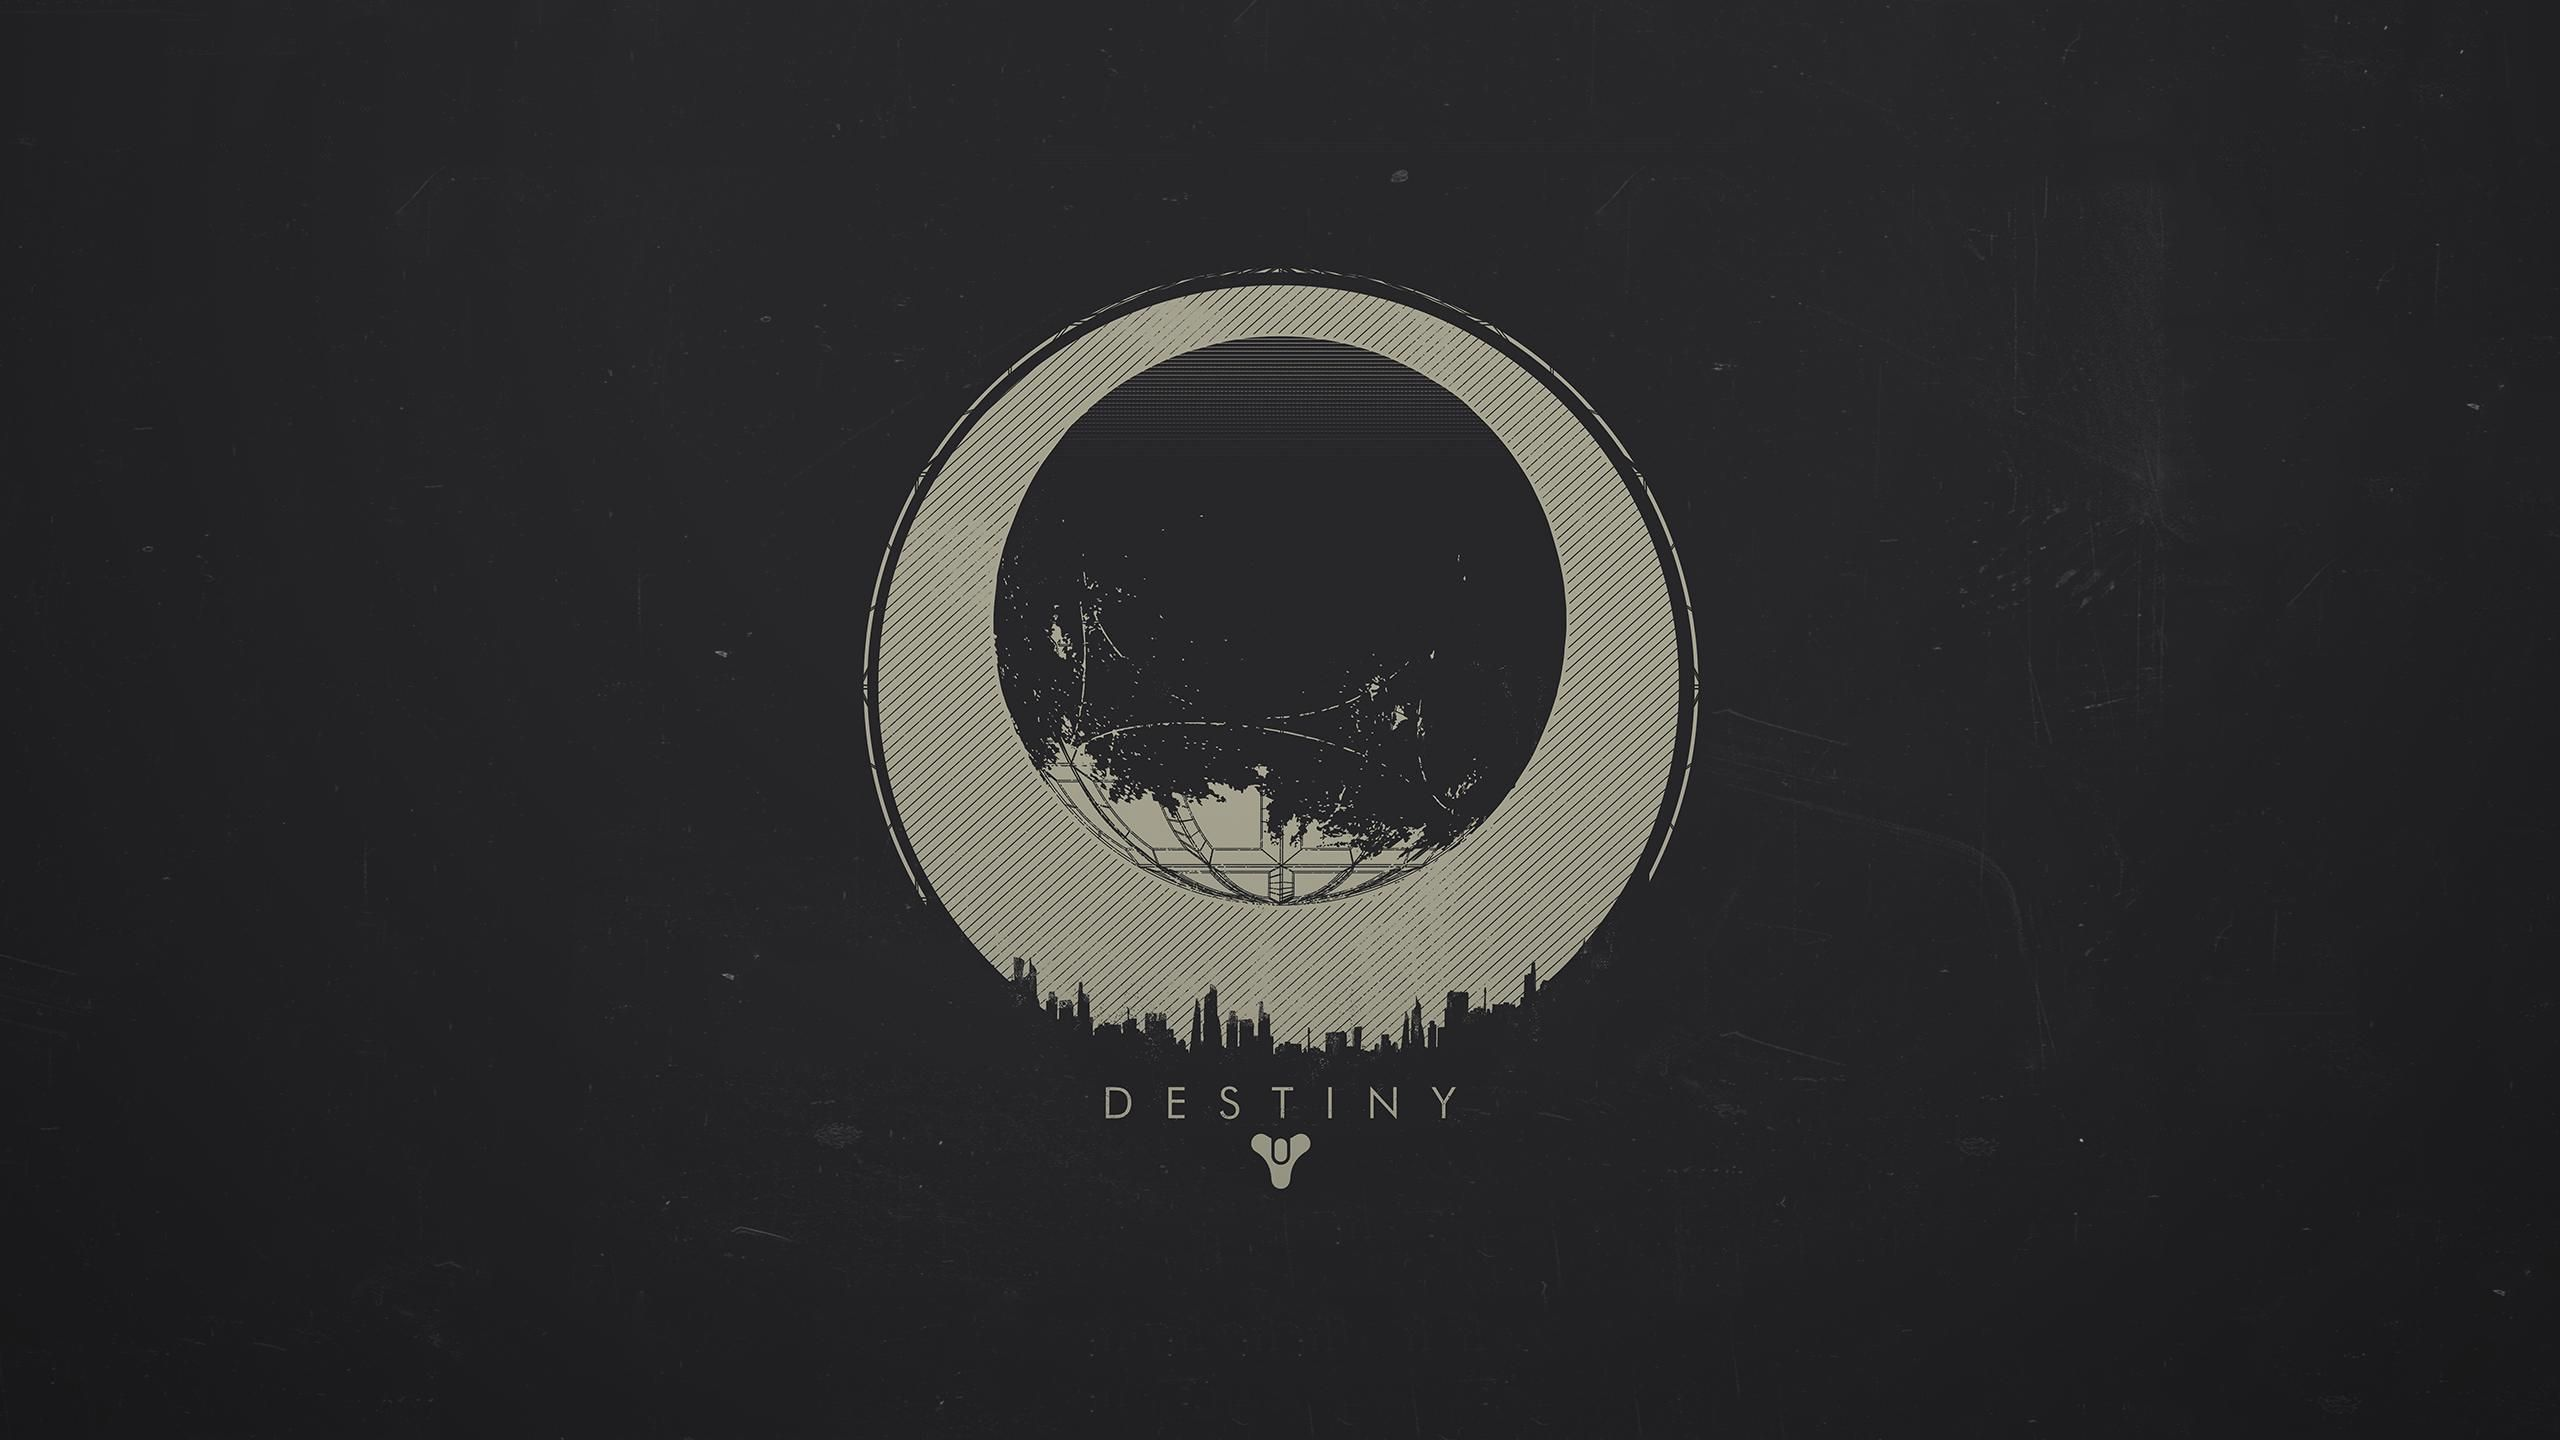
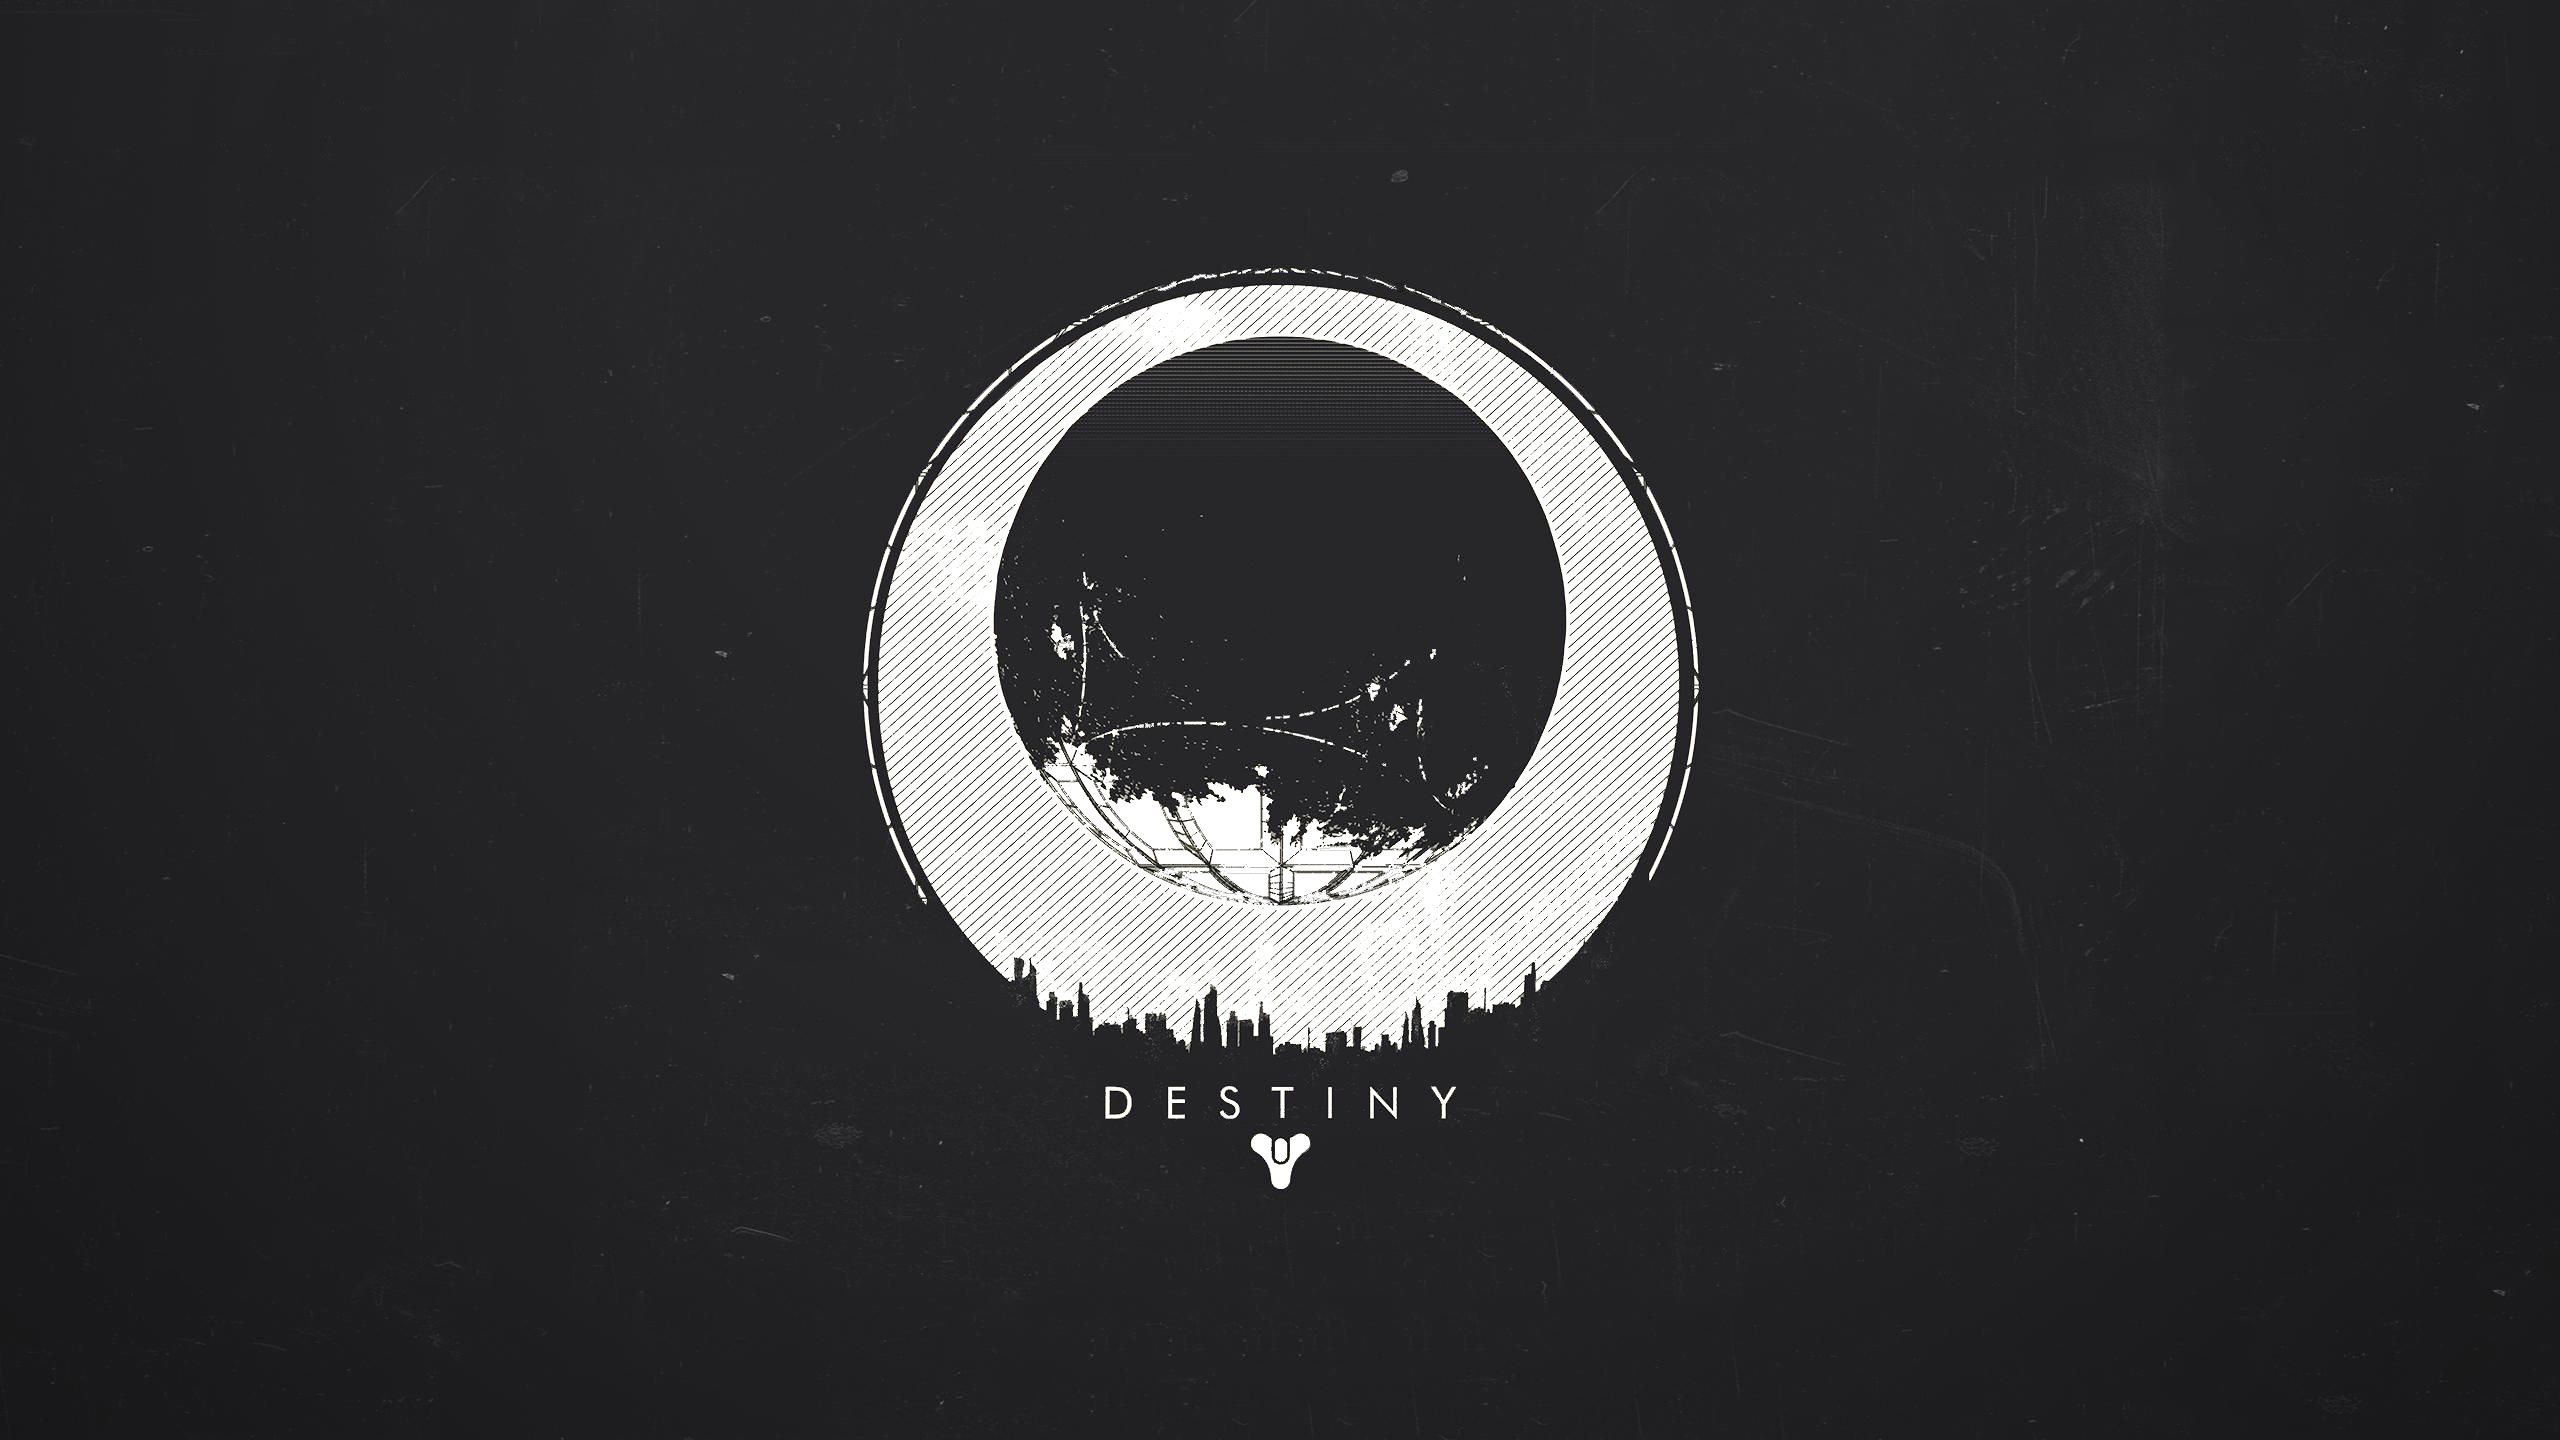
Globalchange

diff --git a/index.html b/index.html
@@ -12,6 +12,7 @@
   <link rel="stylesheet" href="css/style.css">
   <meta charset="utf-8">
   <link rel="shortcut icon" href="favicon/favicon.ico" type="image/x-icon">
+  <script type="text/javascript" src="https://ajax.googleapis.com/ajax/libs/jquery/1.10.1/jquery.min.js"></script>
   <title>Destiny</title>
 </head>
 
@@ -22,42 +23,48 @@
       <h1>Guardian</h1>
     </div>
     <p id="entering">Choose your class</p>
-    <div class="side-icon">
+    <div class="side-icon" id="yak">
       <div class="titan">
-        <div class="animate2">
+        <a href="#titan">
+          <div class="animate2">
 
-          <img class="first" src="img/titan1.png" />
+            <img class="first" src="img/titan1.png" />
 
-          <img class="second" src="img/titan.png" />
-        </div>
+            <img class="second" src="img/titan.png" />
+          </div>
+        </a>
       </div>
 
       <div class="warlock">
-        <div class="animate2">
+        <a href="#warlock">
+          <div class="animate2">
+            <img class="first" src="img/warlock1.png" />
 
-          <img class="first" src="img/warlock1.png" />
+            <img class="second" src="img/warlock.png" />
 
-          <img class="second" src="img/warlock.png" />
-
-        </div>
+          </div>
+          <a>
       </div>
 
       <div class="hunter">
-        <div class="animate2">
+        <a href="#hunter">
+          <div class="animate2">
 
-          <img class="first" src="img/hunter1.png" />
+            <img class="first" src="img/hunter1.png" />
 
-          <img class="second" src="img/hunter.png" />
+            <img class="second" src="img/hunter.png" />
 
-        </div>
+          </div>
+          <a>
       </div>
     </div>
 
-    <div class="platform">
+    <!--<div class="platform">
       <div class="platform-icon"><i class="fab fa-android"></i></div>
       <div class="platform-icon"><i class="fab fa-apple"></i></div>
       <div class="platform-icon"><i class="fab fa-windows"></i></div>
     </div>
+  -->
     <div class="quote">
 <p>    "Devotion inspires bravery,
 
@@ -65,8 +72,50 @@
 
 sacrifice leads to death"</p>
     </div>
+    <nav id="yak1">
+      <a href="#Gallary" style="text-decoration: none;">
+        <div class="nav-button">
+          <p style="font-size: 1.7vw;">Gallary</p>
+        </div>
+      </a>
+      <a href="#subclass" style="text-decoration: none;">
+        <div class="nav-button">
+          <p style="font-size: 1.7vw;">App</p>
+        </div>
+      </a>
+      <a href="#subclass" style="text-decoration: none;">
+        <div class="nav-button">
+          <p style="font-size: 1.7vw;">Subclass</p>
+        </div>
+      </a>
+      <script type="text/javascript">
+        $(document).ready(function() {
+          $("#yak1").on("click", "a", function(event) {
+            event.preventDefault();
+            var id = $(this).attr('href'),
+              top = $(id).offset().top;
+            $('body,html').animate({
+              scrollTop: top
+            }, 1500);
+          });
+        });
+      </script>
+    </nav>
+    <script type="text/javascript">
+      $(document).ready(function() {
+        $("#yak").on("click", "a", function(event) {
+          event.preventDefault();
+          var id = $(this).attr('href'),
+            top = $(id).offset().top;
+          $('body,html').animate({
+            scrollTop: top
+          }, 1500);
+        });
+      });
+    </script>
   </header>
-  <div class="slider">
+  <!--
+  <div class="slider" id="slider">
     <div class="slider__wrapper">
       <div class="slider__item">
         <div><img src="img/t.jpg" style="width: 100%" alt=""></div>
@@ -346,40 +395,105 @@ sacrifice leads to death"</p>
       isCycling: true
     })
   </script>
+-->
   <main>
-      <div class="arc">
-        <div class="arcicon">
-          <img src="img/arc.png" alt="">
-        </div>
-        <div class="arctext">
-          <h4 style="font-family: 'Nunito'; font-size: 3.5vh;">Arc Subclass</h4>
-          <p style="font-size: 3vh; color: rgb(71, 71, 71);">Energy overflows you</p>
-        </div>
+    <div class="arc" id="subclass">
+      <div class="arcicon">
+        <img src="img/arc.png" alt="">
       </div>
-      <div class="solar">
-        <div class="arcicon">
-          <img src="img/solar.png" alt="">
-        </div>
-        <div class="arctext">
-          <h4 style="font-family: 'Nunito'; font-size: 3.5vh;">Solar Subclass</h4>
-          <p style="font-size: 3vh; color: rgb(71, 71, 71);">You seep out the light</p>
-        </div>
+      <div class="arctext">
+        <h4 style="font-family: 'Nunito'; font-size: 2.5vw;">Arc Subclass</h4>
+        <p style="font-size: 1.5vw; color: rgb(71, 71, 71);">Energy overflows you</p>
       </div>
-      <div class="void">
-        <div class="arcicon">
-          <img src="img/void.png" alt="">
-        </div>
-        <div class="arctext">
-          <h4 style="font-family: 'Nunito'; font-size: 3.5vh;">Void Subclass</h4>
-          <p style="font-size: 3vh; color: rgb(71, 71, 71);">Void trusted you</p>
-        </div>
+    </div>
+    <div class="solar">
+      <div class="arcicon">
+        <img src="img/solar.png" alt="">
       </div>
-
+      <div class="arctext">
+        <h4 style="font-family: 'Nunito'; font-size: 2.5vw;">Solar Subclass</h4>
+        <p style="font-size: 1.5vw; color: rgb(71, 71, 71);">You seep out the light</p>
+      </div>
+    </div>
+    <div class="void">
+      <div class="arcicon">
+        <img src="img/void.png" alt="">
+      </div>
+      <div class="arctext">
+        <h4 style="font-family: 'Nunito'; font-size: 2.5vw;">Void Subclass</h4>
+        <p style="font-size: 1.5vw; color: rgb(71, 71, 71);">Void trusted you</p>
+      </div>
+    </div>
 
   </main>
+  <div class="inf" id="titan">
+    <div class="classimg">
+      <img src="img/titan/titan1.jpg">
+    </div>
+    <div class="classinf">
+      <div id="titanlogo">
+        <div><img src="img/titanlogo.png" alt=""></div>
+      </div>
+      <div>
+        <p style="font-size: 1.5vw; color: rgb(71, 71, 71);">"What does it mean to be a Titan? As a Titan, you are a part of the City - in a way no Warlock or Hunter could understand. The dream of the City rests upon our shoulders."
+          — Commander Zavala</p>
+      </div>
+    </div>
+  </div>
 
+  <div class="inf" id="warlock">
+    <div class="classinf">
+      <div id="titanlogo">
+        <div><img src="img/warlocklogo.png" alt=""></div>
+      </div>
+      <div>
+        <p style="font-size: 1.5vw; color: rgb(71, 71, 71);">"What does it mean to be a Warlock? Power. Only Warlocks understand true power."
+          — Ikora Rey</p>
+      </div>
+    </div>
 
+    <div class="classimg">
+      <img src="img/warlock.jpg">
+    </div>
+  </div>
 
+  <div class="inf" id="hunter">
+    <div class="classimg">
+      <img src="img/hunter.jpg">
+    </div>
+    <div class="classinf">
+      <div id="titanlogo">
+        <div><img src="img/hunterlogo.png" alt=""></div>
+      </div>
+      <div>
+        <p style="font-size: 1.5vw; color: rgb(71, 71, 71);">"What does it mean to be a Hunter? I say, it’s all about where you belong. The Warlocks have their libraries, the Titans have their walls...But Hunters belong in the wilds."
+          — Cayde-6</p>
+      </div>
+    </div>
+  </div>
+  <div class="slider" style="width: 100%;" id="Gallary">
+    <img class="mySlides" src="img/t.jpg" style="width:100%">
+    <img class="mySlides" src="img/w.jpg" style="width:100%">
+    <img class="mySlides" src="img/h.jpg" style="width:100%">
+    <img class="mySlides" src="img/hwt.jpg" style="width:100%">
+  </div>
+
+  <script>
+  var myIndex = 0;
+  carousel();
+
+  function carousel() {
+    var i;
+    var x = document.getElementsByClassName("mySlides");
+    for (i = 0; i < x.length; i++) {
+      x[i].style.display = "none";
+    }
+    myIndex++;
+    if (myIndex > x.length) {myIndex = 1}
+    x[myIndex-1].style.display = "block";
+    setTimeout(carousel, 2000); // Change image every 2 seconds
+  }
+  </script>
 </body>
 
 </html>

diff --git a/css/style.css b/css/style.css
@@ -1,12 +1,12 @@
 body {
-  background-color: #eee;
+  background-color: #ECEDEA;
   margin: 0;
   padding: 0;
 }
 .ws{
   width: 100%;
   height: 1vh;
-  background-color: #909281;
+  background-color: #DDDED9;
 }
 header {
   background-image: url(../img/headwp1.jpg);
@@ -18,10 +18,29 @@ header {
   padding-bottom: 15%;
   position: relative;
 }
-
+nav{
+  position: absolute;
+  right: 0;
+  width: 35vw;
+  top: 0;
+  margin-right: 1vw;
+  display: flex;
+  justify-content: space-around;
+}
+.nav-button{
+  position: relative;
+  cursor: pointer;
+  line-height: 0.5;
+}
+.nav-button:hover {
+  display: block;
+  position: relative;
+  border-bottom: solid #fafafa 0.3vh;
+  transition: 0.1s ease;
+}
 h1 {
   font-size: 3.5vw;
-  color: #909281;
+  color: #F4F5F3;
   margin-bottom: 0.5vh;
   font-family: 'Noto Sans';
   -moz-user-select: none;
@@ -34,13 +53,13 @@ h1 {
   margin-left: 3vw;
 }
 
-p {
+p, a{
   font-weight: bold;
-  color: #909281;
+  color: #F4F5F3;
   font-size: 2vw;
   font-family: 'Noto Sans';
 }
-
+.mySlides {display:none;}
 .warlock, .hunter, .titan {
   margin: 1%;
   text-align: center;
@@ -148,6 +167,7 @@ img {
 
 .slider {
   width:100%;
+  height: 73vh;
   position: relative;
   overflow: hidden;
 }
@@ -233,8 +253,8 @@ main{
   background-color: rgb(71, 71, 71);
   box-sizing: border-box;
   border-radius: 50%;
-  height: 10vw;
-  width: 10vw;
+  height: 9vw;
+  width: 9vw;
   text-align: center;
   align-items: center;
   padding: 2vw;
@@ -242,4 +262,26 @@ main{
 .arctext{
   text-align: center;
   align-items: center;
+  margin: 1px;
+  line-height: 0.5vw;
+}
+.inf{
+  background-color: #F4F5F3;
+  width: 100%;
+  display: flex;
+  margin-bottom: 5vh;
+}
+.classimg{
+  width: 60%;
+}
+.classinf{
+  width: 30%;
+  text-align: center;
+  margin: 1% 5% 0 5%;
+  display: flex;
+  flex-direction: column;
+  align-items: center;
+}
+#titanlogo{
+  width:7vw;
 }
